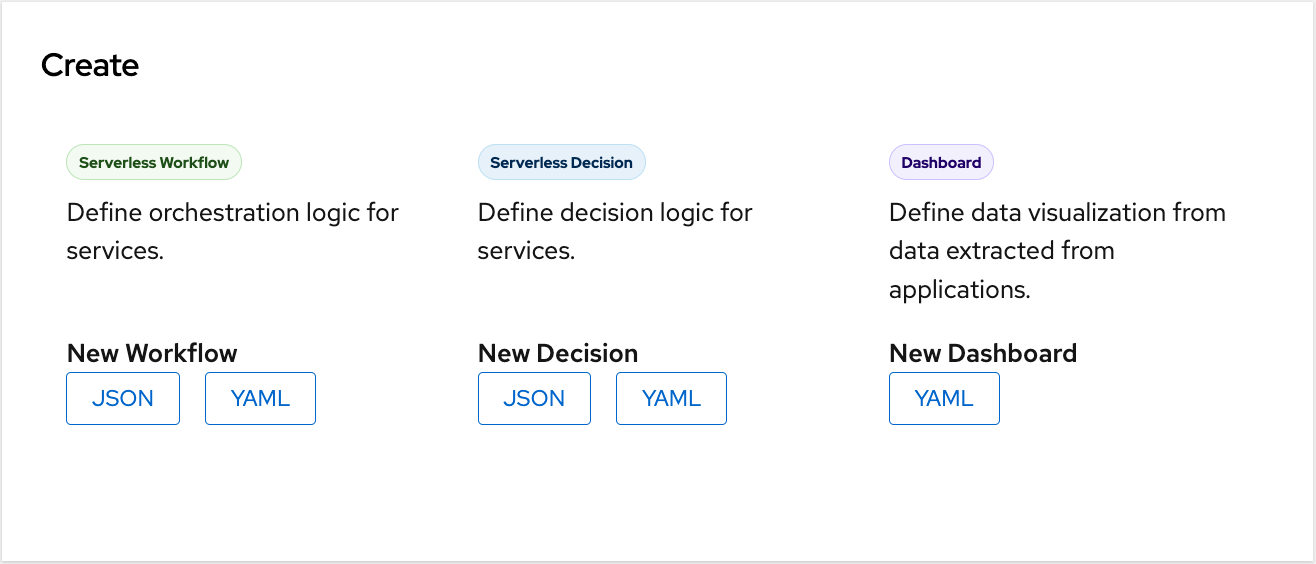
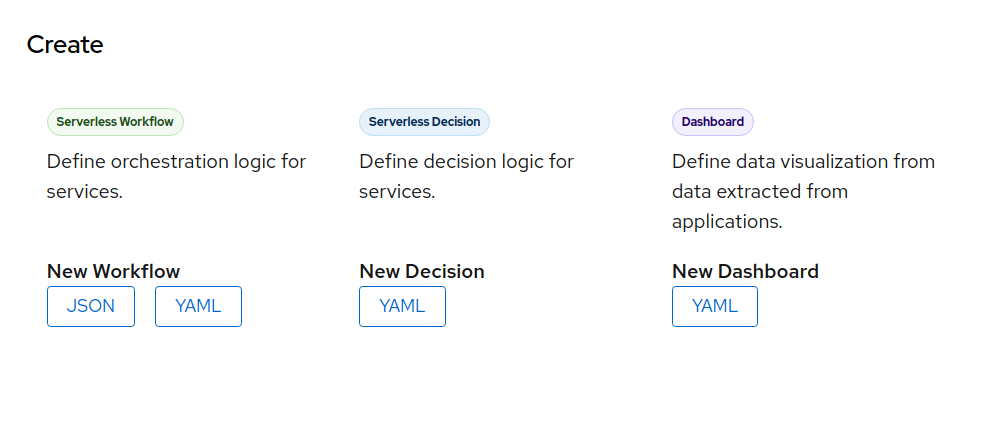
deploy: a2a28ba393c9e4cf334f691be4282dc9586e1312

diff --git a/serverlessworkflow/main/tooling/serverless-logic-web-tools/serverless-logic-web-tools-overview.html b/serverlessworkflow/main/tooling/serverless-logic-web-tools/serverless-logic-web-tools-overview.html
@@ -517,7 +517,7 @@
 <p>Kogito Serverless Workflow editor for <code>.sw.json</code> or <code>.sw.yaml|yml</code> files</p>
 </li>
 <li>
-<p>Serverless Decision editor for <code>.yard.json</code> or <code>.yard.yaml|yml</code> files</p>
+<p>Serverless Decision editor for <code>.yard.yaml|yml</code> files</p>
 </li>
 <li>
 <p>Dashbuilder editor for <code>dash.yaml|yml</code> files</p>
